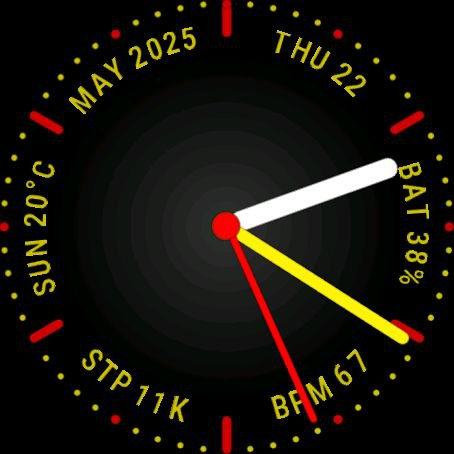
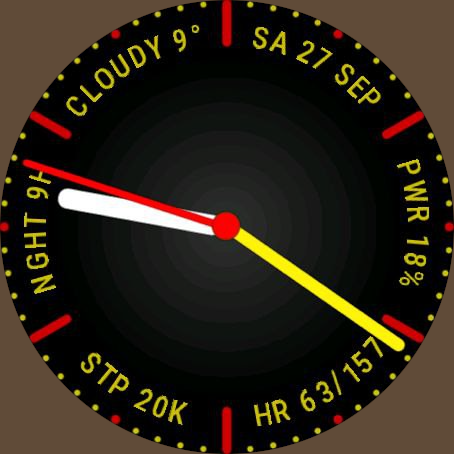
Updated preview, demo and readme

diff --git a/README.md b/README.md
@@ -11,16 +11,14 @@ This version is adapted for Zepp OS smartwatches and designed to match the **Ama
 - **Analog display** with hour, minute, and second hands
 - **Always-On Display (AOD)** supported
 - **Edge widgets** showing:
-  - Year
-  - Month
-  - Day of the week
-  - Day of the month
-- **Activity and health indicators**:
+  - Date
   - Current weather
   - Battery level
+  - Current and maximum heart rate
   - Step counter
-  - Current heart rate
+  - Time till next to sunset or sunrise
 - **Color palette** designed to match the Amazfit Cheetah Round
+- **Multilanguage** support: English, Russian, Deutch and Spanish languages are supported!
 
 ## Installation
 
